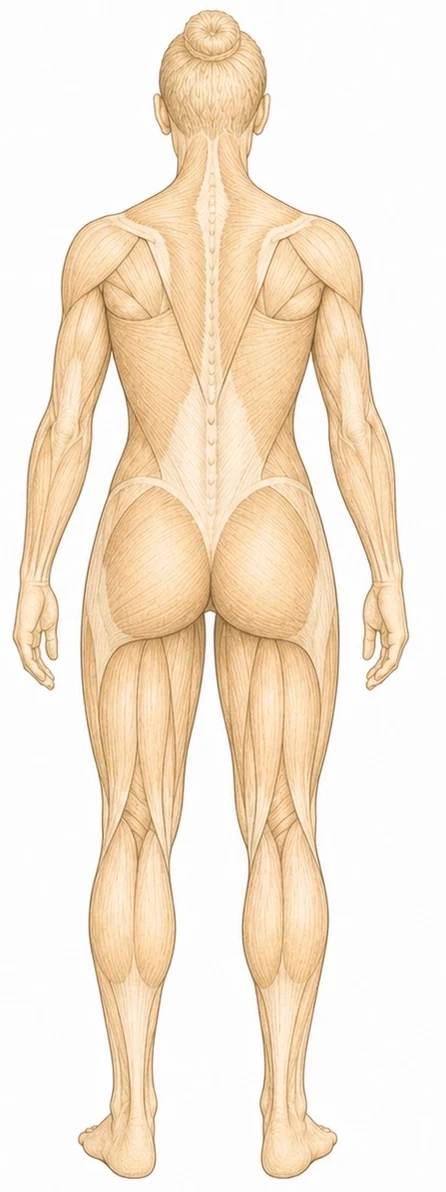
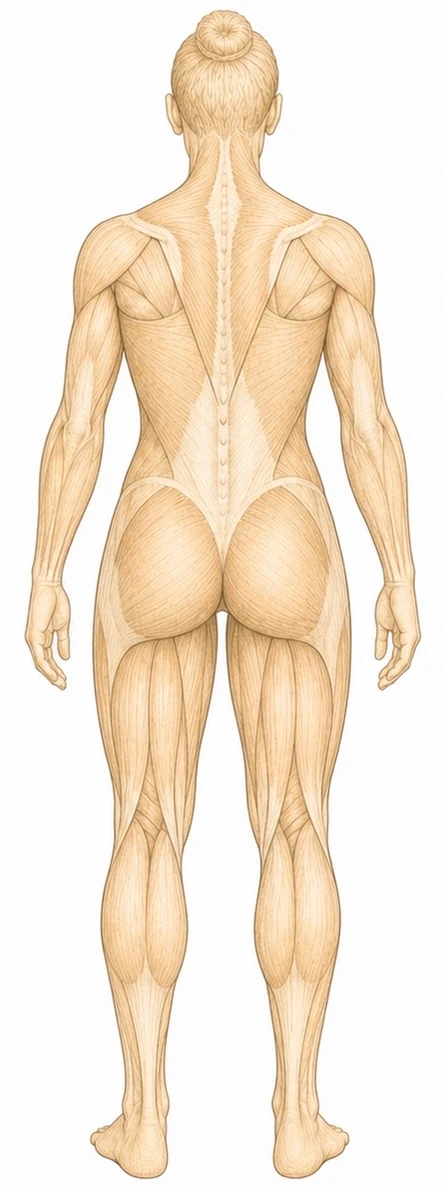
Re-center female anatomy on torso midline, not bbox
The reference 女.png has asymmetric arms that skew the figure bbox,
so bbox-based normalization left the female body shifted ~8px left
of where male body sits at the same overlay coordinates. Use the
widest non-white run at mid-torso height to detect the actual body
centerline and align that with the male reference's centerline.

Effect: adductors and all other front/back overlays now line up
with the female silhouette the same way they do with the male.

Changed region(s): [[0.0291, 0.0, 0.9619, 0.9933]]

diff --git a/index.html b/index.html
@@ -33,7 +33,7 @@
   <link rel="preconnect" href="https://fonts.gstatic.com" crossorigin />
   <link rel="stylesheet" href="https://fonts.googleapis.com/css2?family=Shippori+Mincho+B1:wght@500;700&family=Zen+Kaku+Gothic+New:wght@400;500;700&family=Fraunces:ital,opsz,wght@0,9..144,400;0,9..144,600;1,9..144,400&display=swap" />
 
-  <link rel="stylesheet" href="lp.css?v=20260516-1651" />
+  <link rel="stylesheet" href="lp.css?v=20260516-1657" />
 
   <script type="application/ld+json">
   {
@@ -370,6 +370,6 @@
     </div>
   </footer>
 
-  <script src="lp.js?v=20260516-1651" defer></script>
+  <script src="lp.js?v=20260516-1657" defer></script>
 </body>
 </html>

diff --git a/app.html b/app.html
@@ -4,7 +4,7 @@
   <meta charset="UTF-8" />
   <meta name="viewport" content="width=device-width, initial-scale=1.0" />
   <title>POSTURA Studio｜姿勢分析</title>
-  <link rel="stylesheet" href="app.css?v=20260516-1651" />
+  <link rel="stylesheet" href="app.css?v=20260516-1657" />
 </head>
 <body>
   <header class="app-header no-print">
@@ -157,6 +157,6 @@
     </form>
   </dialog>
 
-  <script type="module" src="src/main.js?v=20260516-1651"></script>
+  <script type="module" src="src/main.js?v=20260516-1657"></script>
 </body>
 </html>

diff --git a/scripts/split-female-anatomy.py b/scripts/split-female-anatomy.py
@@ -44,36 +44,67 @@ def figure_bbox(im):
     return (min_x, min_y, max_x + 1, max_y + 1)
 
 
+def figure_runs(im, y, threshold=WHITE_THRESHOLD):
+    rgb = im.convert("RGB")
+    w, _ = rgb.size
+    px = rgb.load()
+    runs, in_run, s = [], False, 0
+    for x in range(w):
+        r, g, b = px[x, y]
+        non_white = (r < threshold or g < threshold or b < threshold)
+        if non_white and not in_run:
+            in_run, s = True, x
+        elif not non_white and in_run:
+            in_run = False; runs.append((s, x - 1))
+    if in_run:
+        runs.append((s, w - 1))
+    return runs
+
+
+def body_centerline(im, y):
+    """Midpoint of the widest non-white run at row y — gives torso centerline
+    without being skewed by asymmetric arms or background marks."""
+    runs = figure_runs(im, y)
+    if not runs:
+        return None
+    best = max(runs, key=lambda r: r[1] - r[0])
+    return (best[0] + best[1]) / 2
+
+
 def normalize_to_reference(src_im, ref_im):
-    """Crop+resize src so its figure bbox lands at the same proportional
-    bounds (and same overall canvas size) as ref's figure bbox."""
+    """Crop+resize src so its figure lands at the same vertical bounds AND
+    its torso centerline matches the reference's torso centerline. Vertical
+    alignment uses the figure bbox; horizontal alignment uses the torso
+    centerline (more reliable than bbox when arms hang asymmetrically)."""
     ref_w, ref_h = ref_im.size
     rbx0, rby0, rbx1, rby1 = figure_bbox(ref_im)
-    ref_bw, ref_bh = rbx1 - rbx0, rby1 - rby0
+    ref_bh = rby1 - rby0
 
     sbx0, sby0, sbx1, sby1 = figure_bbox(src_im)
-    src_bw, src_bh = sbx1 - sbx0, sby1 - sby0
+    src_bh = sby1 - sby0
 
-    # Pick scale so the source figure matches the reference figure size.
-    # Use the larger required scale so the figure fully fits; height tends
-    # to be the dominant axis for these full-body silhouettes.
-    scale = min(ref_bw / src_bw, ref_bh / src_bh)
-    new_bw = src_bw * scale
-    new_bh = src_bh * scale
-
-    # New canvas size before placing the figure on it.
+    # Scale so the figure heights match; height is the most reliable axis.
+    scale = ref_bh / src_bh
     new_src_w = int(round(src_im.width * scale))
     new_src_h = int(round(src_im.height * scale))
     scaled = src_im.resize((new_src_w, new_src_h), Image.LANCZOS)
 
-    # Where the figure bbox lands in the scaled source image.
-    scaled_bx0 = sbx0 * scale
+    # Vertical: align top of figure bbox with reference's top.
     scaled_by0 = sby0 * scale
-
-    # Target: figure bbox should land at (rbx0, rby0) on a (ref_w, ref_h) canvas.
-    # So we want to paste scaled image at offset = (rbx0 - scaled_bx0, rby0 - scaled_by0).
-    offset_x = int(round(rbx0 - scaled_bx0))
     offset_y = int(round(rby0 - scaled_by0))
+
+    # Horizontal: align torso centerline at a row in the abdomen, where
+    # the body is widest and least affected by limbs/hair/hairline.
+    # Sample at ~50% of the figure's height (mid-torso).
+    sample_ref_y = (rby0 + rby1) // 2
+    sample_src_y = int(round((sample_ref_y - offset_y)))
+    sample_src_y = max(0, min(new_src_h - 1, sample_src_y))
+    ref_cx = body_centerline(ref_im, sample_ref_y)
+    src_cx = body_centerline(scaled, sample_src_y)
+    if ref_cx is None or src_cx is None:
+        raise RuntimeError("centerline detection failed")
+    offset_x = int(round(ref_cx - src_cx))
+    print(f"    centering at ref_y={sample_ref_y}: ref_cx={ref_cx:.1f}, src_cx={src_cx:.1f}, dx={offset_x}")
 
     canvas = Image.new("RGB", (ref_w, ref_h), (255, 255, 255))
     canvas.paste(scaled.convert("RGB"), (offset_x, offset_y))
